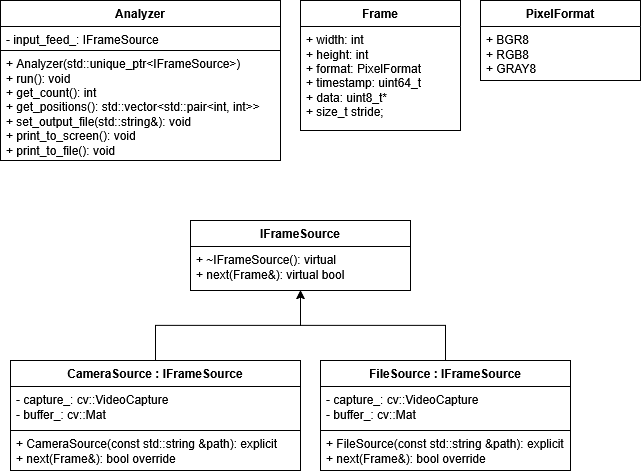
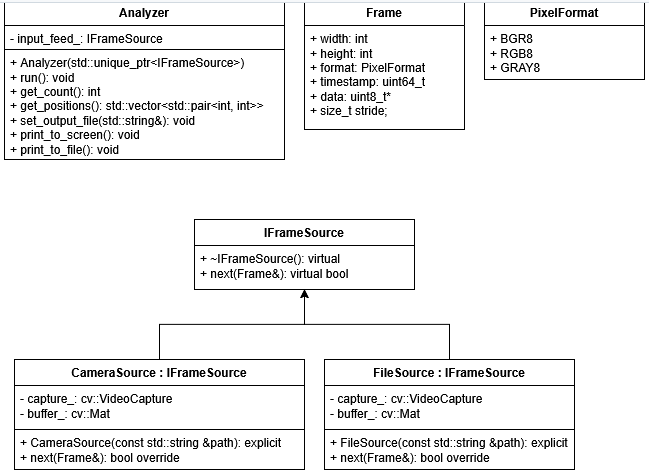
Updated UML class diagram to improve readability in dark mode. Updated README to include phase 0 deliverables

diff --git a/README.md b/README.md
@@ -1,22 +1,28 @@
 # ACME_perception_module
 [![License: MIT](https://img.shields.io/badge/License-MIT-yellow.svg)](https://opensource.org/licenses/MIT)
 
-## Overview
-This repository is the midterm assignment for the ENPM700 Software Development couse. The following project is a perception module for ACME Robotics. This C++ module will be a human (N>=1) obstacle detector and tracker. It will output location data obtained from analyzing video from a monocular video camera.
-
 ## Table of Contents
 - [Overview](#overview)
-- [Backlog](#backlog)
+- [Project Deliverables](#project-deliverables)
 - [Features](#features)
 - [Architecture](#architecture)
 - [Dependencies](#dependencies)
 - [Installation](#installation)
 - [Testing](#testing)
 
+## Overview
+This repository is the midterm assignment for the ENPM700 Software Development couse. The following project is a perception module for ACME Robotics. This C++ module will be a human (N>=1) obstacle detector and tracker. It will output location data obtained from analyzing video from a monocular video camera.
 
-## Backlog
+## Project Deliverables
+### **Phase 0**
+| **Deliverable**      | **Link** |
+|:---------------------|:-------- |
+| **Proposal**         | **[Link](https://docs.google.com/document/d/1lg7BTjVZPU-9VlcfBjtMoFnfqaxiJw49ybgWXe28exQ/edit?usp=sharing)** |
+| **Quad Chart**       | **[Link](https://docs.google.com/presentation/d/1ArSuv_W5K5M3QDWWErcLwr7SC7UwhioL13dkYcQ4VEk/edit?usp=sharing)** |
+| **Proposal Video**   | **[Link](https://youtu.be/OkT_tCYltAI?si=i8uGd-1u-vzNCljR)** |
+| **Product Backlog**  | **[Link](https://docs.google.com/spreadsheets/d/1AJOp31G0ja_eymtNH2MVXDXD4VEDos6vJx1aDn5YIA0/edit?usp=sharing)** | 
+| **UML Class Diagram**| **[Link](https://drive.google.com/file/d/1UlZO1RhkXP9v4lFadjrH4jGhcDqJkhok/view?usp=sharing)**|
 
-Link to the product backlog can be found here: [Product Backlog](https://docs.google.com/spreadsheets/d/1AJOp31G0ja_eymtNH2MVXDXD4VEDos6vJx1aDn5YIA0/edit?usp=sharing)
 
 ## Features
 - YOLOv4 object detection
